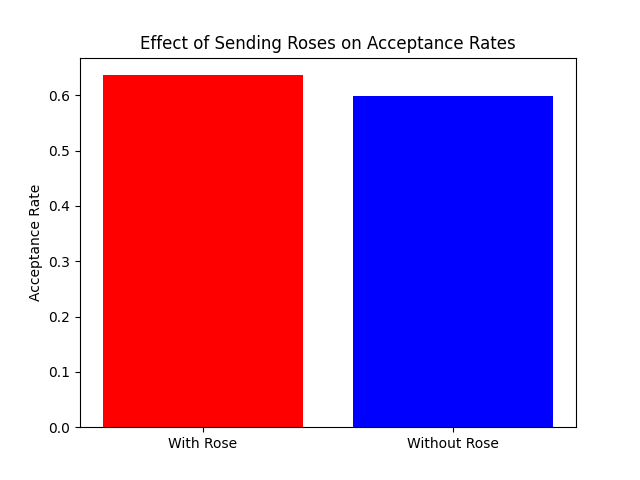
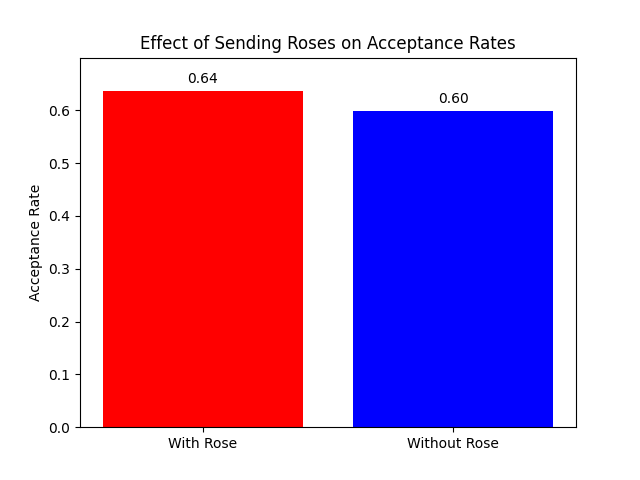
update plots

diff --git a/visualize.py b/visualize.py
@@ -62,17 +62,23 @@ def visualize_rose_effect(proposals_with_rose, proposals_without_rose, save_to="
         np.mean(proposals_with_rose) if proposals_with_rose else 0,
         np.mean(proposals_without_rose) if proposals_without_rose else 0
     ]
-
+    
     plt.bar(labels, means, color=['red', 'blue'])
     plt.ylabel('Acceptance Rate')
     plt.title('Effect of Sending Roses on Acceptance Rates')
+    
+    for i, mean in enumerate(means):
+        plt.text(i, mean + 0.01, f"{mean:.2f}", ha='center', va='bottom')
+
+    max_mean = max(means)
+    plt.ylim(0, max_mean + 0.1 * max_mean)
     plt.savefig(f"{save_to}/rose_effect.png")
     plt.close()
 
 def visualize_desirability_effect(desirability, acceptance_rate_sent, acceptance_rate_received, save_to="visualizations"):
     plt.scatter(desirability, acceptance_rate_sent, alpha=0.5, label="Sent")
     plt.scatter(desirability, acceptance_rate_received, alpha=0.5, label="Received")
-    plt.xlabel('Average Desirability Score')
+    plt.xlabel('Agent Desirability Score')
     plt.ylabel('Acceptance Rate')
     plt.title('Effect of Desirability on Proposal Outcomes')
     plt.legend()
